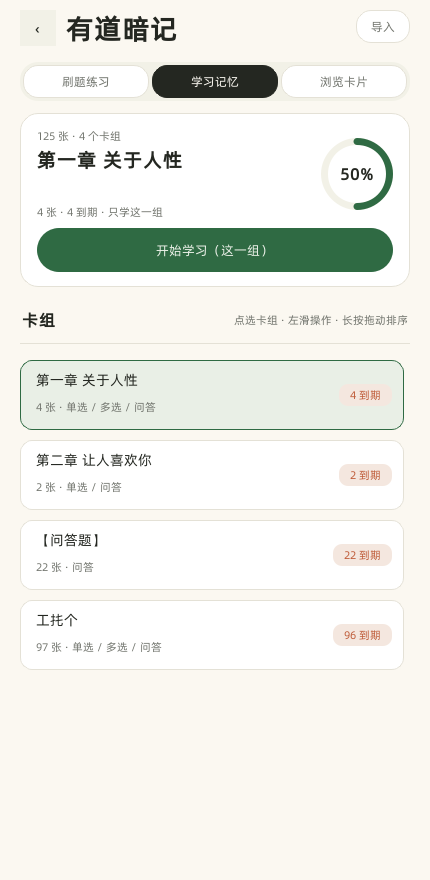
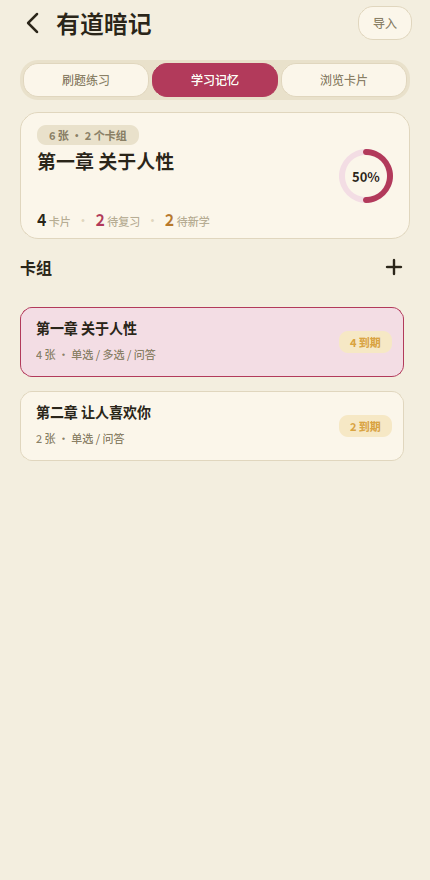
feat: update workspace

diff --git a/app/app.py b/app/app.py
@@ -39,12 +39,11 @@ _IS_ANDROID = sys.platform == "android"   # 安卓窗口由系统铺满，不能
 
 
 def _android_edge_to_edge(bg_hex: str | None = None, nav_hex: str | None = None):
-    """安卓：内容铺到系统栏后面，状态栏透出奶白底、手势条与底部 dock 同色。
+    """安卓：内容铺到系统栏后面，状态栏与手势条都透出页面底色。
 
     Qt 在窗口首次显示、切换主题（setStyleSheet）时都可能把系统栏重设，
     所以启动和每次换主题之后都要重放。bg_hex 是页面奶白色，用来给状态栏
-    和 Activity 窗口底色兜底；nav_hex 是 dock 深色，手势条区域即使没被
-    Qt 铺到，系统栏自己也是 dock 同色，视觉上连成一条。
+    和 Activity 窗口底色兜底；nav_hex 是手势条颜色（默认与页面同色）。
     """
     try:
         from jnius import autoclass
@@ -87,11 +86,11 @@ def _android_edge_to_edge(bg_hex: str | None = None, nav_hex: str | None = None)
                 window.setDecorFitsSystemWindows(False)
                 ctrl = window.getInsetsController()
                 if ctrl is not None:
-                    # 状态栏奶白 → 深色图标；手势条深色 → 浅色手势条/图标
-                    ctrl.setSystemBarsAppearance(8, 8 | 16)
+                    # 状态栏 / 手势条都是浅色纸底 → 都用深色系统图标与手势条
+                    ctrl.setSystemBarsAppearance(8 | 16, 8 | 16)
             else:
                 window.getDecorView().setSystemUiVisibility(
-                    0x0100 | 0x0200 | 0x0400 | 0x2000)
+                    0x0100 | 0x0200 | 0x0400 | 0x0010 | 0x2000)
             try:
                 bars = autoclass("org.kivy.android.FrogLogSystemBars")
                 bars.barColor = color
@@ -303,9 +302,9 @@ class MainWindow(QMainWindow):
         app.setFont(QFont(theme.FONT, 9))
         app.setStyleSheet(theme.build_qss(t))
         self.setStyleSheet(f"QMainWindow{{background:{t['paper']};}}")
-        # 底部 dock：用主题深色和整页浅底撞色；选中项奶油胶囊 + 深色图标
+        # 底部 dock 不再铺深色：和页面同底，选中项用浅色胶囊 + 主题色图标
         self.nav.setStyleSheet(
-            f"QFrame#navFrame{{background:{t['deep']};border:none;}}"
+            "QFrame#navFrame{background:transparent;border:none;}"
         )
         self.nav_bar.setStyleSheet("QFrame#navBar{background:transparent;border:none;}")
         for b in self.nav_buttons.values():
@@ -320,7 +319,8 @@ class MainWindow(QMainWindow):
             return
         t = theme.theme_tokens(self.theme_id)
         paper = t.get("paper", "#F3EEDF")
-        deep = t.get("deep", paper)
+        # 底栏已与页面同色：手势条也跟着铺页面纸色，不再单独铺深色
+        deep = paper
         write_log = getattr(sys, "froglog_log", None)
         if callable(write_log):
             try:
@@ -356,13 +356,13 @@ class MainWindow(QMainWindow):
                 bottom = max(0, margins.bottom())
         self._sys_top = top
         self._sys_bottom = bottom
-        # dock 只有 44 高、图标垂直居中；下方手势区继续铺 dock 同色，
+        # dock 只有 44 高、图标垂直居中；下方手势区与页面同色，
         # 所以整条底栏延伸到内容区最底部。
         if hasattr(self, "nav"):
             pad = min(bottom, 26)
             if _IS_ANDROID and pad <= 0:
                 # 部分机型边到边后 safeArea 返回 0，但手势条其实压着内容，
-                # 这里兜底 24dp，保证 dock 深色一直铺到屏幕最底部。
+                # 这里兜底 24dp，保证底栏一直铺到屏幕最底部。
                 pad = 24
             self.nav.setFixedHeight(44 + pad)
             outer = self.nav.layout()

diff --git a/scripts/android16_deploy.py b/scripts/android16_deploy.py
@@ -426,17 +426,20 @@ public final class FrogLogSystemBars {
             window.setDecorFitsSystemWindows(false);
             WindowInsetsController controller = window.getInsetsController();
             if (controller != null) {
-                int light = WindowInsetsController.APPEARANCE_LIGHT_STATUS_BARS;
-                // 状态栏奶白 → 保留 LIGHT（深色图标）；手势条深色 → 清掉 LIGHT（白色图标）
+                // 状态栏 / 手势条都是浅色纸底 → 都保留 LIGHT（深色图标与深色手势条）
                 controller.setSystemBarsAppearance(
-                        WindowInsetsController.APPEARANCE_LIGHT_STATUS_BARS,
-                        light | WindowInsetsController.APPEARANCE_LIGHT_NAVIGATION_BARS);
+                        WindowInsetsController.APPEARANCE_LIGHT_STATUS_BARS
+                                | WindowInsetsController.APPEARANCE_LIGHT_NAVIGATION_BARS,
+                        WindowInsetsController.APPEARANCE_LIGHT_STATUS_BARS
+                                | WindowInsetsController.APPEARANCE_LIGHT_NAVIGATION_BARS);
             }
         } else {
             int flags = View.SYSTEM_UI_FLAG_LAYOUT_STABLE
                     | View.SYSTEM_UI_FLAG_LAYOUT_FULLSCREEN
-                    | View.SYSTEM_UI_FLAG_LAYOUT_HIDE_NAVIGATION;
-            // 不加 LIGHT_STATUS_BAR / LIGHT_NAVIGATION_BAR：深色底上用白色系统图标
+                    | View.SYSTEM_UI_FLAG_LAYOUT_HIDE_NAVIGATION
+                    | View.SYSTEM_UI_FLAG_LIGHT_STATUS_BAR
+                    | View.SYSTEM_UI_FLAG_LIGHT_NAVIGATION_BAR;
+            // 浅色纸底 → 系统图标与手势条都用深色
             window.getDecorView().setSystemUiVisibility(flags);
         }
         window.setStatusBarColor(barColor);

diff --git a/app/widgets.py b/app/widgets.py
@@ -291,8 +291,8 @@ class PlusButton(QPushButton):
         self.setCursor(Qt.PointingHandCursor)
         self.setFixedSize(size, size)
         self.setStyleSheet("QPushButton{background:transparent;border:none;}")
-        self._stroke = max(2.0, size * 0.085)
-        self._span = size * 0.30
+        self._stroke = max(2.0, size * 0.075)
+        self._span = size * 0.22               # 32px → 笔画总宽约 14px，比之前小一号
 
     def paintEvent(self, e):
         p = QPainter(self)
@@ -830,14 +830,16 @@ class NavButton(QPushButton):
         p = QPainter(self)
         p.setRenderHint(QPainter.Antialiasing)
         active = self.isChecked()
-        # dock 是主题深色，未选中用奶油图标；选中用奶油胶囊 + 深色图标
-        col = QColor(T["deep"]) if active else QColor(255, 253, 248, 210)
+        # 底栏不再铺深色，直接落在页面上：未选中墨灰，选中主题色 + 浅色胶囊
+        col = QColor(T["brand"]) if active else QColor(T["ink2"])
         w, h = self.width(), self.height()
 
         if active:
             p.setPen(Qt.NoPen)
-            p.setBrush(QColor(T["paper"]))
-            p.drawRoundedRect(QRectF(3, 2, w - 6, h - 4), 14, 14)
+            p.setBrush(QColor(T["brand_soft"]))
+            # 紧凑胶囊，只包住图标，不占满整个 tab 槽位
+            pw = min(62.0, w - 12.0)
+            p.drawRoundedRect(QRectF((w - pw) / 2, (h - 32) / 2, pw, 32), 12, 12)
 
         pen = QPen(col, 1.8)
         pen.setCapStyle(Qt.RoundCap)

diff --git a/app/pages/today.py b/app/pages/today.py
@@ -281,11 +281,7 @@ class TodayPage(Page):
         left_n = len(due_all)
         band = W.BandHeader()
         dirty = self._dirty()
-        # 底部 dock 是深色，顶栏若完全透明会显得头轻脚重：
-        # 给顶栏一块略深于页面的底色 + 底部细线，再补一行日期副标题，压住视觉重心。
-        band.setStyleSheet(
-            f"QFrame#bandHeader{{background:{W.T['paper2']};border:none;"
-            f"border-bottom:1px solid {W.T['line']};}}")
+        # 顶栏不再铺底色，和整页保持同一块纸色；只保留日期副标题。
         band.setFixedHeight(62)
 
         row = QWidget()

diff --git a/app/main.py b/app/main.py
@@ -56,7 +56,8 @@ def main():
             import theme as _theme
             t = _theme.theme_tokens(getattr(win, "theme_id", None) or _theme.DEFAULT_THEME)
             paper = t.get("paper", paper)
-            deep = t.get("deep", deep)
+            # 底栏与页面同色，手势条也铺页面纸色
+            deep = paper
             from app import _android_edge_to_edge
             _android_edge_to_edge(paper, deep)
         except Exception:

diff --git a/app/theme.py b/app/theme.py
@@ -150,7 +150,7 @@ def build_qss(t: dict) -> str:
 
 
     QFrame#navFrame {{
-        background: {t['deep']};
+        background: transparent;
         border: none;
     }}
     QFrame#navBar {{ background: transparent; border: none; }}
